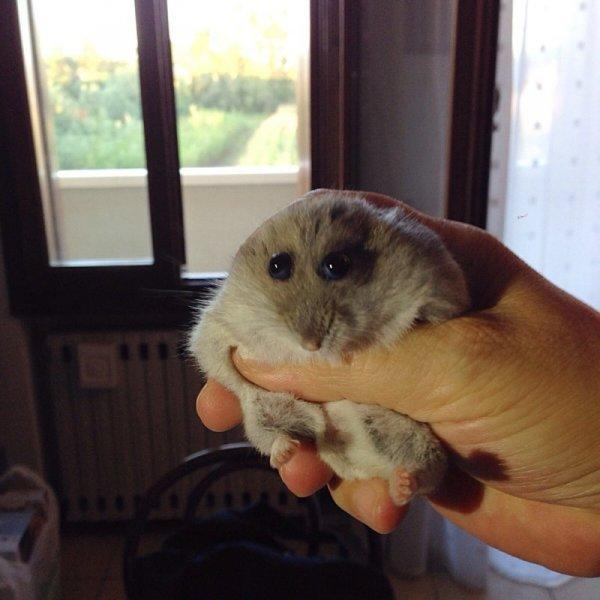
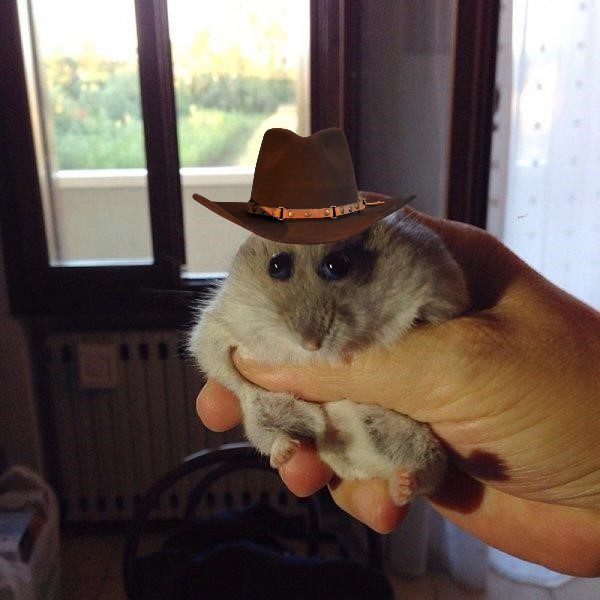
Hampter Rodeo Time

Changed region(s): [[0.33, 0.21, 0.69, 0.42]]

diff --git a/index.html b/index.html
@@ -1,8 +1,20 @@
 <HTML>
 	<HEAD>
 	<TITLE>HAMPTER</TITLE>
+	<style>
+		body {
+		background-image: url("images/hampter.jpg");
+		background-repeat: no-repeat;
+		background-attachment: fixed;
+		background-size: 100% 100%;
+		}
+	</style> 
 	</HEAD>
 <BODY>
+	<!--
+	<CENTER>
 	<IMG src="images/hampter.jpg" alt="HAMPTER">
+	</CENTER>
+	-->
 </BODY>
 </HTML>
